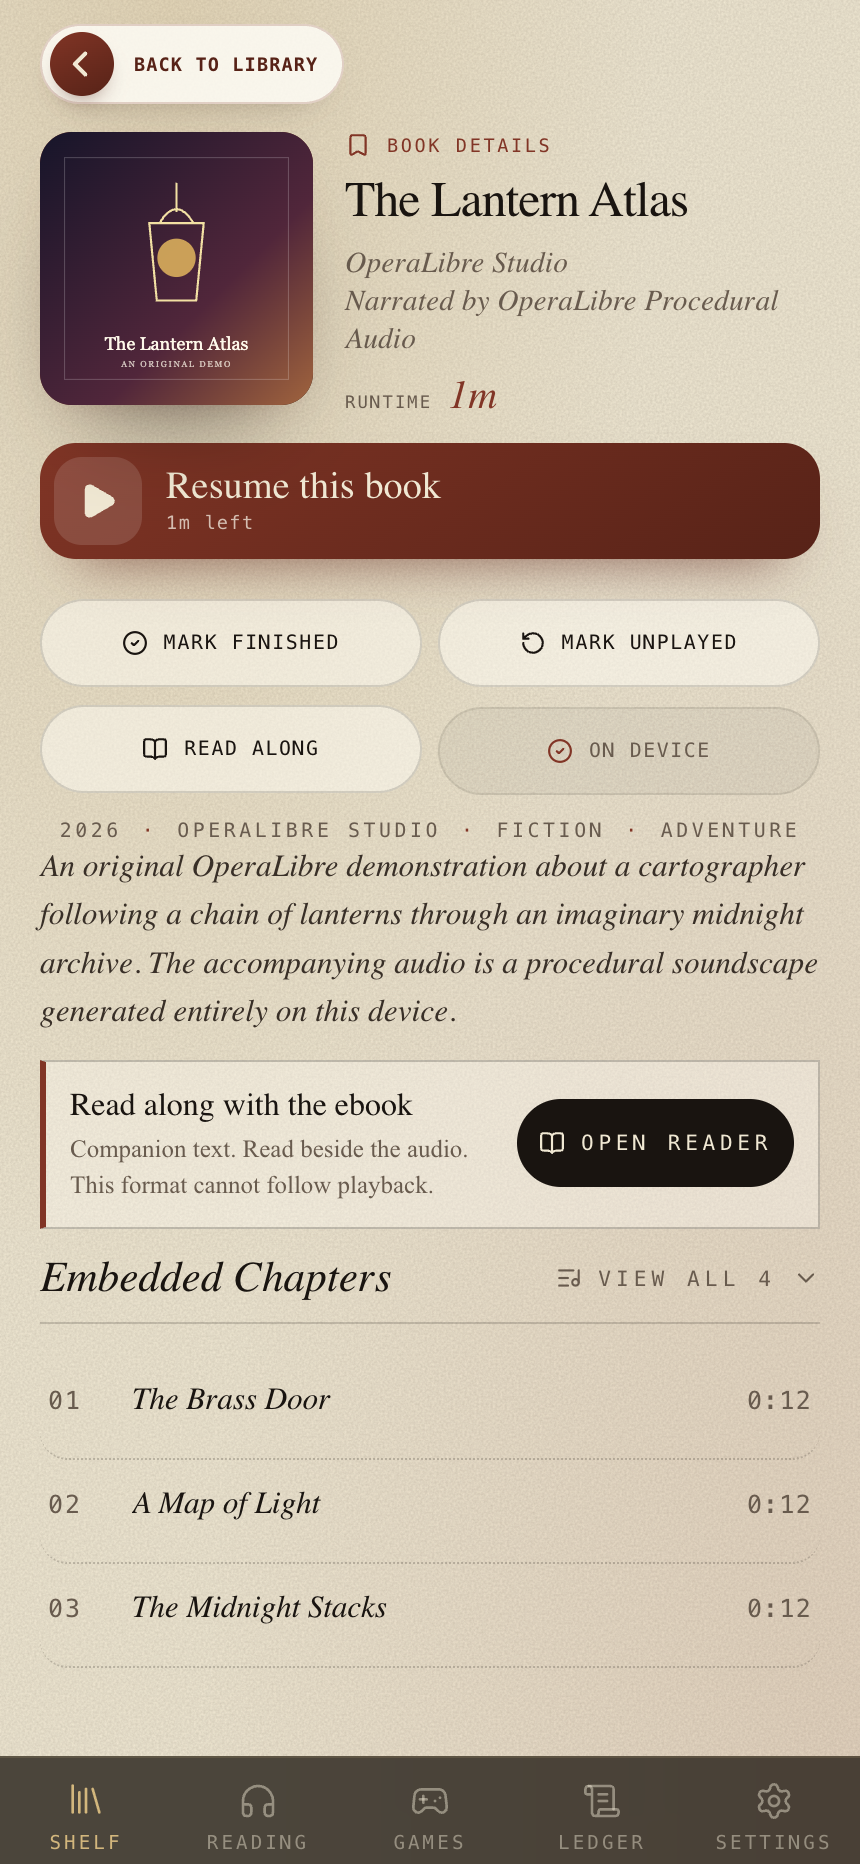
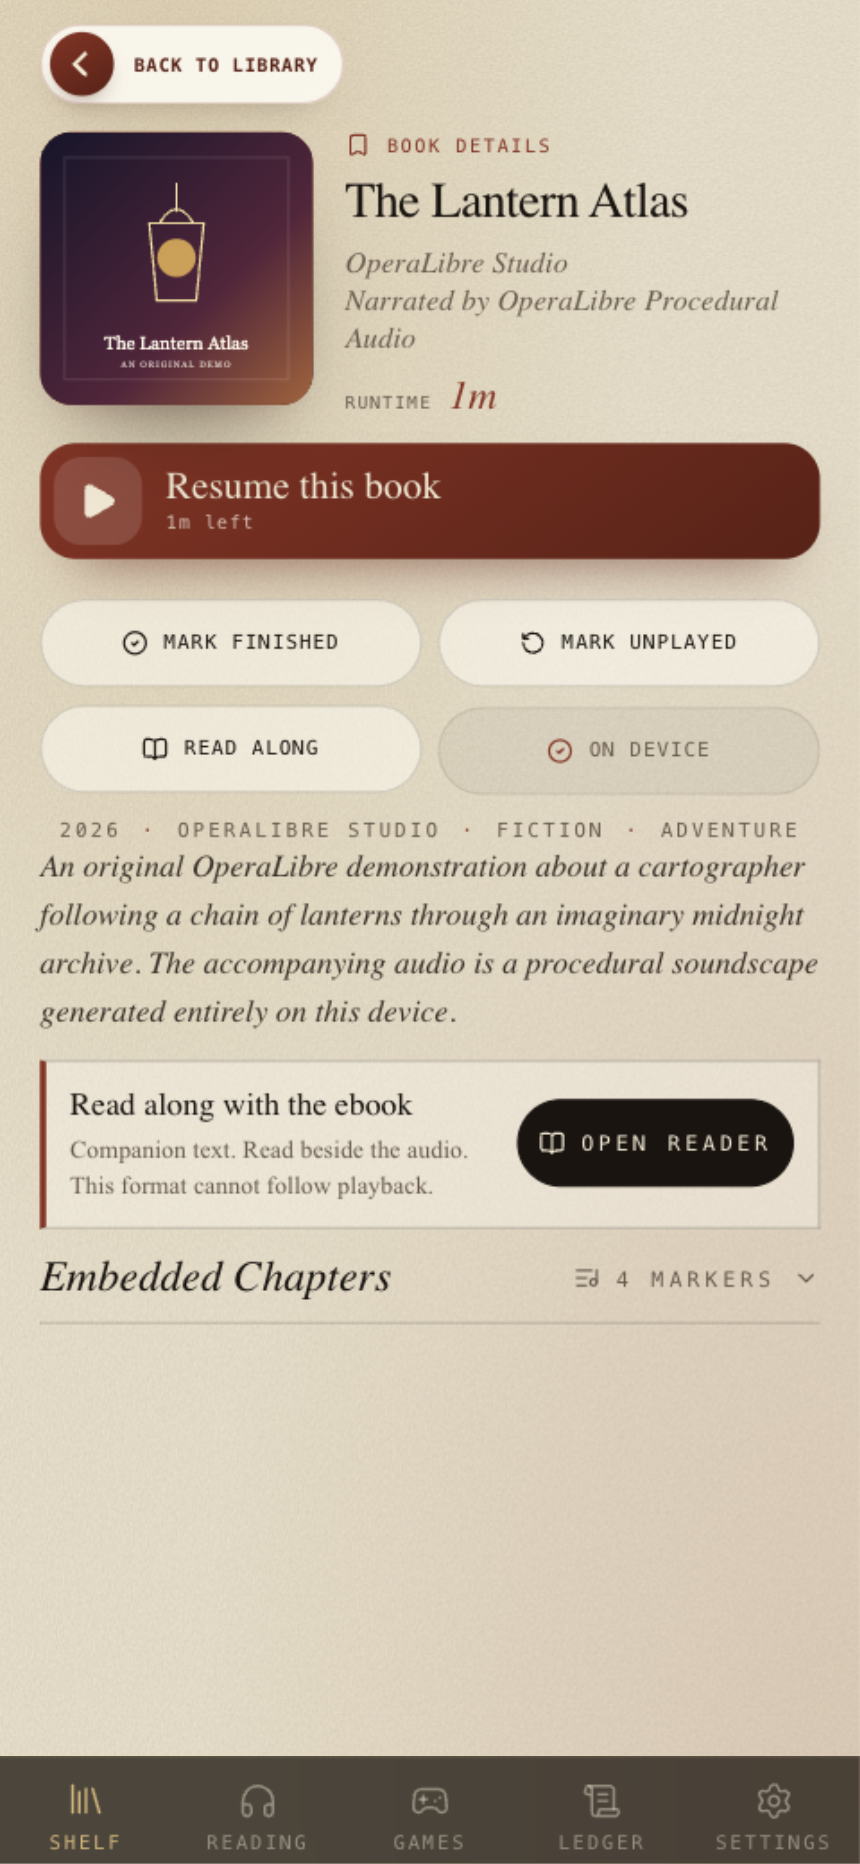
fix(ios): keep embedded chapters collapsed

diff --git a/apps/web/src/PlayerPane.tsx b/apps/web/src/PlayerPane.tsx
@@ -275,8 +275,6 @@ export function PlayerPane({
     setEbookUploadFile
   } = uploads;
 
-  const previewChapters = native && nativeTab === "shelf" && selectedChapterSegments.length > 1 && !chaptersOpen;
-
   const bookPageMasthead = (
     <>
       {/* On the shelf tab the details page is a child page of the library
@@ -1264,7 +1262,6 @@ export function PlayerPane({
                 type="button"
                 className="track-list-header track-list-toggle"
                 aria-expanded={chaptersOpen}
-                aria-label={previewChapters ? `Show all ${selectedChapterSegments.length} chapters` : undefined}
                 onClick={() => {
                   haptic("light");
                   setChaptersOpen((open) => {
@@ -1275,13 +1272,13 @@ export function PlayerPane({
               >
                 <span className="title-of-contents">Embedded Chapters</span>
                 <span className="section-label">
-                  <ListMusic size={13} /> {previewChapters ? `View all ${selectedChapterSegments.length}` : `${selectedChapterSegments.length} Markers`}
+                  <ListMusic size={13} /> {selectedChapterSegments.length} Markers
                   <ChevronDown size={14} className={`toggle-chevron ${chaptersOpen ? "open" : ""}`} />
                 </span>
               </button>
-              {chaptersOpen || previewChapters ? (
+              {chaptersOpen ? (
                 <div className="track-list" ref={chaptersListRef}>
-                  {(previewChapters ? selectedChapterSegments.slice(0, Math.min(3, selectedChapterSegments.length - 1)) : selectedChapterSegments).map((chapter, index) => (
+                  {selectedChapterSegments.map((chapter, index) => (
                     <button
                       key={chapter.id}
                       data-chapter-id={chapter.id}

diff --git a/docs/assets/reviews/pr-211/README.md b/docs/assets/reviews/pr-211/README.md
@@ -42,8 +42,8 @@ Screenshot capture recovered for these follow-up changes:
 The latest revision replaces the earlier mobile arrangements:
 
 - [iOS details](ios-details-compact.png), 430 × 932: larger cover alongside
-  compact credits/runtime, a smaller reader invitation, and a preview of up to
-  three chapters. View all expands the complete chapter list.
+  compact credits/runtime and a smaller reader invitation. Chapters stay
+  collapsed until explicitly opened.
 - [Mobile web details](mobile-details-compact.png), 390 × 844: Library and folio
   share a row; the cover sits beside the title and credits. Labeled actions
   remain in two columns, with an odd final action spanning both columns.
